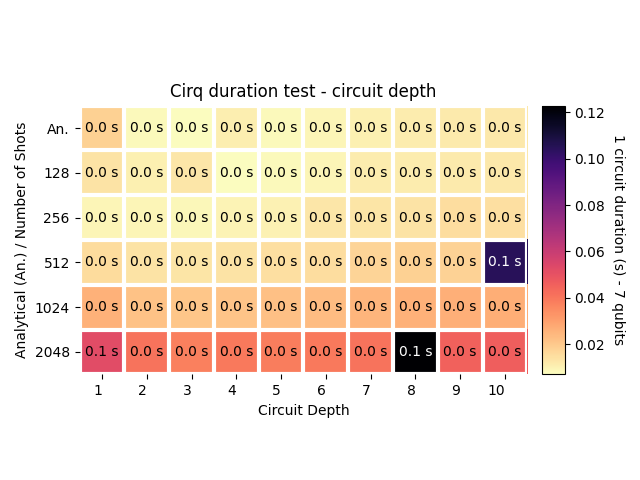
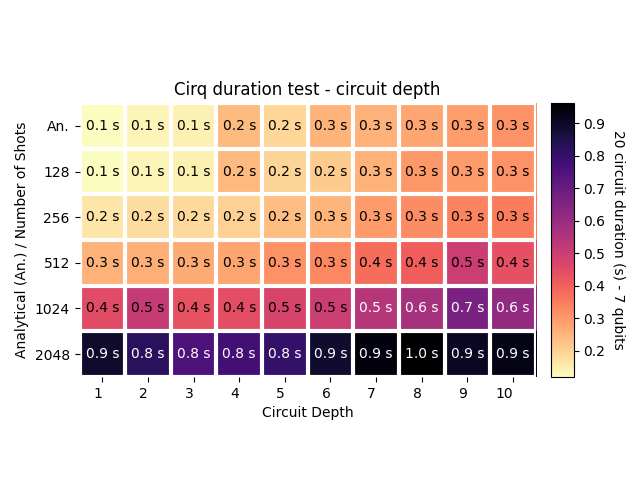
implement change of time measurement

diff --git a/classes.py b/classes.py
@@ -16,14 +16,21 @@ from cirq.contrib.qasm_import import circuit_from_qasm
 import config
 import utils
 
+import time
 
-class initialize:
+
+class duration_framework:
     def __init__(self, seed, evals, qubits, depth, consistent_circuit):
         self.seed = seed
         self.evals = evals
         self.qubits = qubits
         self.depth = depth
         self.consistent_circuit = consistent_circuit
+
+    def time_measurement(self, shots):
+        start_time = time.time()
+        self.execute(shots)
+        return (time.time()-start_time)
 
     @classmethod
     def from_config(cls):
@@ -36,7 +43,7 @@ class initialize:
         )
 
 
-class duration_pennylane(initialize):
+class duration_pennylane(duration_framework):
     def generate_circuit(self, shots):
         if self.consistent_circuit == False:
             self._generate_pennylane_circuit(shots)
@@ -81,7 +88,7 @@ class duration_pennylane(initialize):
             circuit(self.w)
 
 
-class duration_qiskit(initialize):
+class duration_qiskit(duration_framework):
     def generate_circuit(self, shots):
         if self.consistent_circuit == False:
             self._generate_qiskit_circuit(shots)
@@ -180,8 +187,10 @@ class duration_real(duration_qiskit):
 
         return duration
 
+    def time_measurement(self, shots):
+        return self.execute(shots)
 
-class duration_matrix(initialize):
+class duration_matrix(duration_framework):
     def generate_circuit(self, shots):
         self.qcs = []
         for _ in range(self.evals):
@@ -201,7 +210,7 @@ class duration_matrix(initialize):
                 np.random.choice(len(probabilities), shots, p=probabilities)
 
 
-class duration_cirq(initialize):
+class duration_cirq(duration_framework):
     def generate_circuit(self, shots):
         if self.consistent_circuit == False:
             self._generate_cirq_circuit()
@@ -245,7 +254,7 @@ class duration_cirq(initialize):
                 self.simulator.run(i, repetitions=shots)
 
 
-class duration_qibo(initialize):
+class duration_qibo(duration_framework):
     def generate_circuit(self, shots):
         if self.consistent_circuit == False:
             raise NotImplementedError

diff --git a/test_duration.py b/test_duration.py
@@ -46,11 +46,9 @@ try:
                 continue
             framework.depth = j
             framework.generate_circuit(shots)
-            start_time = time.time()
-            duration = framework.execute(shots)
-            duration_matrix_depth[i, j - 1] = (
-                duration if duration is not None else time.time() - start_time
-            )
+        
+            measured_time = framework.time_measurement(shots)
+            duration_matrix_depth[i, j - 1] = measured_time
 
         # iteration over qubits
         for j in range(1, qubits + 1):
@@ -58,12 +56,10 @@ try:
                 continue
             framework.qubits = j
             framework.generate_circuit(shots)
-            start_time = time.time()
-            duration = framework.execute(shots)
-            duration_matrix_qubits[i, j - 1] = (
-                duration if duration is not None else time.time() - start_time
-            )
 
+            measured_time = framework.time_measurement(shots)
+            duration_matrix_qubits[i, j - 1] = measured_time
+            
         print(f"Progress: {(i+1)*(depth+qubits)}/{len(shots_list)*(depth+qubits)}")
 
 except KeyboardInterrupt:
